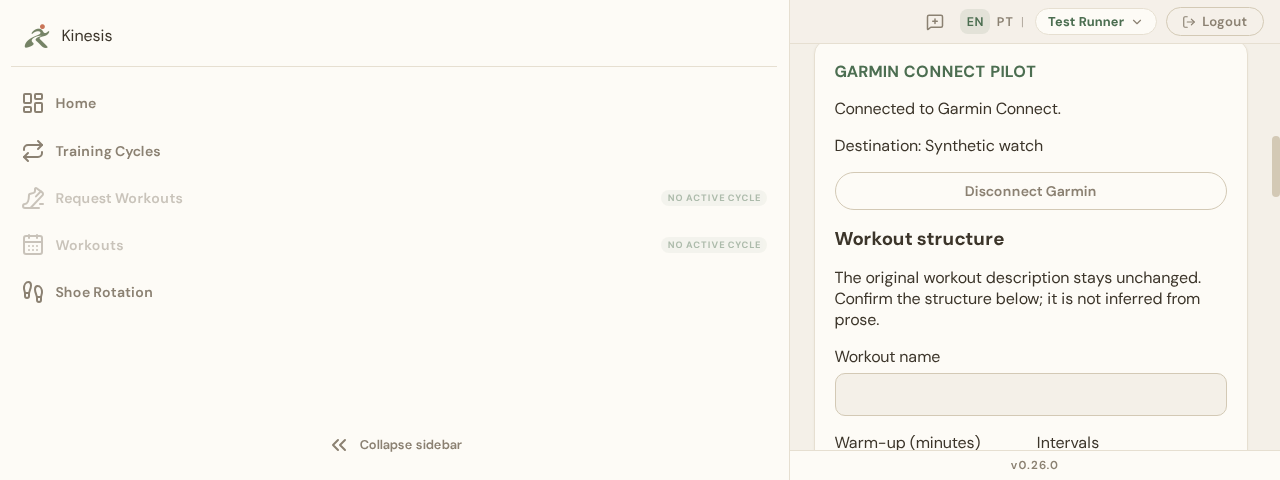
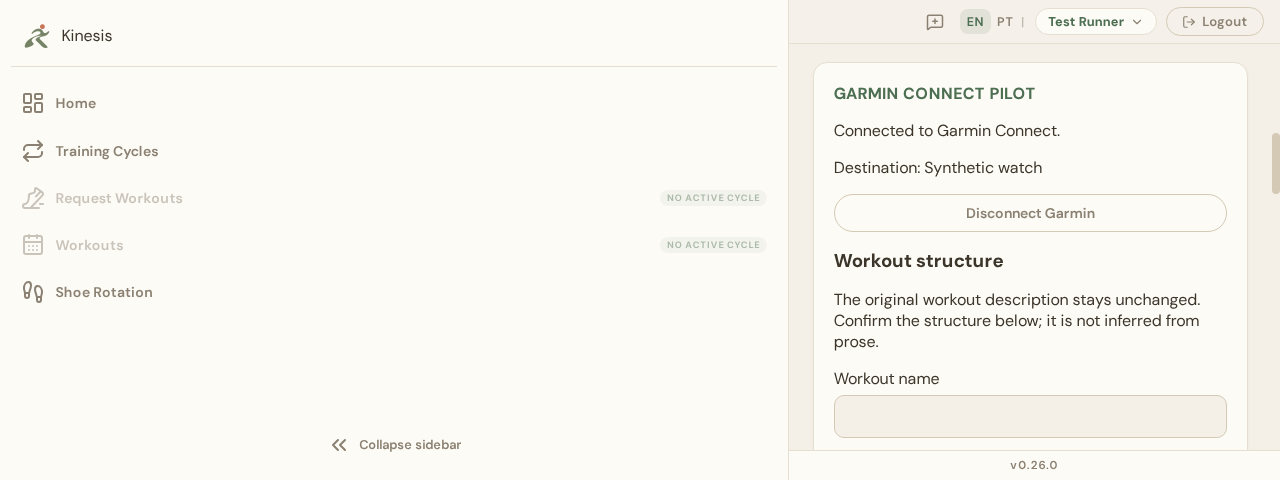
feat: support distance intervals in Garmin pilot

diff --git a/src/public/training-result.js b/src/public/training-result.js
@@ -1276,6 +1276,7 @@ async function initTrainingResult() {
   const garminOperationStatus = document.getElementById('garminOperationStatus');
   const garminReconcileButton = document.getElementById('garminReconcileButton');
   const garminTargetType = document.getElementById('garminTargetType');
+  const garminIntervalType = document.getElementById('garminIntervalType');
   const garminTargetFields = document.getElementById('garminTargetFields');
   let garminChallenge = null;
   let garminFingerprint = null;
@@ -1337,7 +1338,13 @@ async function initTrainingResult() {
     const cooldown = value.steps.find((step) => step.kind === 'cooldown');
     document.getElementById('garminWarmup').value = warmup ? warmup.end.value / 60 : 0;
     document.getElementById('garminRepetitions').value = repeat?.repetitions || 1;
-    document.getElementById('garminInterval').value = run ? run.end.value / 60 : 30;
+    const runEnd = run?.end || { type: 'time', value: 1800 };
+    garminIntervalType.value = runEnd.type;
+    const distanceUnit = getUserPreferences().distance_unit === 'mi' ? 'mi' : 'km';
+    document.getElementById('garminInterval').value = runEnd.type === 'distance'
+      ? runEnd.value / (distanceUnit === 'mi' ? 1609.344 : 1000)
+      : runEnd.value / 60;
+    updateGarminIntervalInput(false);
     document.getElementById('garminRecovery').value = recovery ? recovery.end.value / 60 : 0;
     document.getElementById('garminCooldown').value = cooldown ? cooldown.end.value / 60 : 0;
   };
@@ -1352,7 +1359,10 @@ async function initTrainingResult() {
     const repetitions = Number(document.getElementById('garminRepetitions').value);
     const steps = [];
     if (minutes('garminWarmup')) steps.push({ id: 'warmup', kind: 'warmup', end: { type: 'time', value: Math.round(minutes('garminWarmup') * 60) }, target: { type: 'none' } });
-    const interval = { end: { type: 'time', value: Math.round(minutes('garminInterval') * 60) }, target };
+    const intervalEnd = garminIntervalType.value === 'distance'
+      ? { type: 'distance', value: Math.round(convertDistanceToKm(minutes('garminInterval'), getUserPreferences().distance_unit === 'mi' ? 'mi' : 'km') * 1000) }
+      : { type: 'time', value: Math.round(minutes('garminInterval') * 60) };
+    const interval = { end: intervalEnd, target };
     if (repetitions > 1) steps.push({ id: 'repeat', kind: 'repeat', repetitions, interval, recovery: { end: { type: 'time', value: Math.round(minutes('garminRecovery') * 60) }, target: { type: 'none' } } });
     else steps.push({ id: 'run', kind: 'run', ...interval });
     if (minutes('garminCooldown')) steps.push({ id: 'cooldown', kind: 'cooldown', end: { type: 'time', value: Math.round(minutes('garminCooldown') * 60) }, target: { type: 'none' } });
@@ -1379,7 +1389,10 @@ async function initTrainingResult() {
     for (const step of preview.steps) {
       const li = document.createElement('li');
       const label = garminText(step.kind === 'repeat' ? 'repeatName' : `${step.kind}Name`, { count: step.repetitions });
-      const detail = step.end?.type === 'time' ? garminText('timeDetail', { minutes: Math.round(step.end.value / 60) }) : garminText('unsupported');
+      const distanceUnit = getUserPreferences().distance_unit === 'mi' ? 'mi' : 'km';
+      const detail = step.end?.type === 'time' ? garminText('timeDetail', { minutes: Math.round(step.end.value / 60) })
+        : step.end?.type === 'distance' ? garminText('distanceDetail', { distance: formatDistance(step.end.value / 1000, distanceUnit) })
+          : garminText('unsupported');
       let target = garminText('noTarget');
       if (step.target?.type === 'heart_rate') target = `${step.target.lower_bpm}–${step.target.upper_bpm} bpm`;
       else if (step.target?.type === 'pace') target = `${formatPaceFromMetric(step.target.faster_seconds)}–${formatPaceFromMetric(step.target.slower_seconds)} /km`;
@@ -1391,6 +1404,7 @@ async function initTrainingResult() {
   };
   document.addEventListener('app:languagechange', () => {
     setGarminConnectionMessage(garminConnectionMessage);
+    updateGarminIntervalInput(false);
     if (garminCurrentOperation) renderGarminOperation(garminCurrentOperation);
     else if (garminOperationMessageKey) setGarminOperationMessage(garminOperationMessageKey);
     if (garminPreviewModel) renderGarminPreview(garminPreviewModel);
@@ -1403,6 +1417,19 @@ async function initTrainingResult() {
     document.getElementById('garminLower').min = garminTargetType.value === 'pace' ? '2' : '40';
     document.getElementById('garminUpper').min = garminTargetType.value === 'pace' ? '2' : '40';
   });
+  function updateGarminIntervalInput(reset = false) {
+    const input = document.getElementById('garminInterval');
+    const unit = getUserPreferences().distance_unit === 'mi' ? 'mi' : 'km';
+    const byDistance = garminIntervalType.value === 'distance';
+    document.getElementById('garminIntervalLabel').textContent = garminText(
+      byDistance ? (unit === 'mi' ? 'runDistanceMi' : 'runDistanceKm') : 'runMinutes',
+    );
+    input.min = byDistance ? '0.1' : '1';
+    input.max = byDistance ? (unit === 'mi' ? '62.1' : '100') : '120';
+    input.step = byDistance ? '0.1' : '1';
+    if (reset) input.value = byDistance ? '5' : '30';
+  }
+  garminIntervalType.addEventListener('change', () => updateGarminIntervalInput(true));
   garminConnectButton.addEventListener('click', () => {
     garminAuthForm.dataset.open = 'true'; garminAuthForm.hidden = false;
     garminConnectButton.hidden = true; document.getElementById('garminEmail').focus();

diff --git a/test/garminSession.browser.test.js b/test/garminSession.browser.test.js
@@ -24,6 +24,7 @@ test('Garmin session UI previews without remote mutation in PT/EN on desktop and
   assert.ok(chrome, 'Chrome is required for Garmin UI verification.');
   const db = createDatabase({ filename: ':memory:' });
   const owner = await registerUser(db, { email: 'garmin-ui@example.test', password: 'Synthetic-only-1', first_name: 'Test', last_name: 'Runner' });
+  db.prepare("UPDATE users SET distance_unit = 'mi' WHERE id = ?").run(owner.id);
   db.prepare('INSERT INTO trainings (user_id,dia,tipo,treino,detalhes) VALUES (?,?,?,?,?)').run(owner.id, '2026-11-02', 'Run', 'Intervals', '6 x 3 min');
   const remoteCalls = [];
   const app = await buildServer({ db, sessionCookieSecure: false,
@@ -54,7 +55,7 @@ test('Garmin session UI previews without remote mutation in PT/EN on desktop and
     await command('Network.enable'); await command('Network.setCookie', { name: SESSION_COOKIE_NAME, value: createSession(db, owner.id).token, url: baseUrl });
     await command('Emulation.setDeviceMetricsOverride', { width: 1280, height: 900, deviceScaleFactor: 1, mobile: false });
     await command('Page.navigate', { url: `${baseUrl}/training-result.html?id=1` });
-    const wait = async (expression) => { for (let i = 0; i < 150; i += 1) { if (await evaluate(expression).catch(() => false)) return; await delay(100); } throw new Error('Garmin session panel did not become ready.'); };
+    const wait = async (expression) => { for (let i = 0; i < 150; i += 1) { if (await evaluate(expression).catch(() => false)) return; await delay(100); } const diagnostic = await evaluate("document.getElementById('garminOperationStatus')?.textContent").catch(() => 'unavailable'); throw new Error(`Garmin session panel did not become ready: ${diagnostic}`); };
     await wait("document.getElementById('sessionDate')?.textContent.trim() !== '-' && !document.getElementById('garminSessionCard').hidden");
     await wait("document.getElementById('garminConnectionStatus').textContent.includes('Connected')");
     await evaluate("document.getElementById('garminSessionCard').scrollIntoView()");
@@ -75,6 +76,14 @@ test('Garmin session UI previews without remote mutation in PT/EN on desktop and
     const low = await evaluate("(()=>({height:innerHeight,scrollWidth:document.documentElement.scrollWidth,width:innerWidth,cardWidth:document.getElementById('garminSessionCard').getBoundingClientRect().width}))()");
     assert.equal(low.height, 480); assert.ok(low.scrollWidth <= low.width); assert.ok(low.cardWidth < low.width);
     await command('Page.captureScreenshot').then((shot) => require('node:fs').writeFileSync('/tmp/kinesis-garmin-ui-en-low-window.png', Buffer.from(shot.data, 'base64')));
+    await evaluate("document.getElementById('garminWorkoutName').value='Tempo synthetic';document.getElementById('garminIntervalType').value='distance';document.getElementById('garminIntervalType').dispatchEvent(new Event('change'));document.getElementById('garminInterval').value='5';document.getElementById('garminPrescriptionForm').requestSubmit()");
+    await wait("!document.getElementById('garminPreview').hidden");
+    assert.match(await evaluate("document.getElementById('garminPreviewSteps').textContent"), /Run: 5\.00 mi/);
+    assert.equal(JSON.parse(db.prepare('SELECT prescription_json FROM garmin_workout_prescriptions').get().prescription_json).steps[0].end.value, 8047);
+    await evaluate("document.getElementById('garminPreview').scrollIntoView()");
+    await command('Page.captureScreenshot').then((shot) => require('node:fs').writeFileSync('/tmp/kinesis-garmin-ui-en-distance-preview.png', Buffer.from(shot.data, 'base64')));
+    await evaluate("document.getElementById('garminIntervalType').value='time';document.getElementById('garminIntervalType').dispatchEvent(new Event('change'));document.getElementById('garminInterval').value='30';document.getElementById('garminPrescriptionForm').requestSubmit()");
+    await wait("document.getElementById('garminPreviewSteps').textContent.includes('Run: 30 min')");
     await evaluate("document.getElementById('garminWorkoutName').value='Tempo synthetic';document.getElementById('garminPrescriptionForm').requestSubmit()");
     await wait("!document.getElementById('garminPreview').hidden");
     assert.match(await evaluate("document.getElementById('garminPreviewSteps').textContent"), /Run: 30 min/);

diff --git a/scripts/garmin-product.js b/scripts/garmin-product.js
@@ -230,7 +230,8 @@ function toConnectorPayload(operation) {
       || (warmups.length && ordered[0] !== warmups[0])
       || (cooldowns.length && ordered[ordered.length - 1] !== cooldowns[0])
       || (ordered.length !== warmups.length + cooldowns.length + mains.length)) throw new Error('unsupported');
-  let warmup = 0, interval = 0, recovery = 0, cooldown = 0, repetitions = 1, pace = null;
+  let warmup = 0, intervalSeconds = null, intervalDistanceMeters = null;
+  let recovery = 0, cooldown = 0, repetitions = 1, pace = null;
   let targetKind = 'none';
   let lowerBpm = null;
   let upperBpm = null;
@@ -245,18 +246,26 @@ function toConnectorPayload(operation) {
   for (const step of ordered) {
     if (step.kind === 'warmup' && step.end.type === 'time' && step.end.value <= 3600 && step.target.type === 'none') warmup = step.end.value;
     else if (step.kind === 'cooldown' && step.end.type === 'time' && step.end.value <= 3600 && step.target.type === 'none') cooldown = step.end.value;
-    else if (step.kind === 'repeat' && step.interval.end.type === 'time' && step.recovery.end.type === 'time'
+    else if (step.kind === 'repeat' && ['time', 'distance'].includes(step.interval.end.type) && step.recovery.end.type === 'time'
       && step.recovery.target.type === 'none' && step.repetitions <= 20) {
       if (step.recovery.end.value > 3600) throw new Error('unsupported');
-      interval = step.interval.end.value; recovery = step.recovery.end.value; repetitions = step.repetitions;
+      if (step.interval.end.type === 'time') intervalSeconds = step.interval.end.value;
+      else intervalDistanceMeters = step.interval.end.value;
+      recovery = step.recovery.end.value; repetitions = step.repetitions;
       applyTarget(step.interval.target);
-    } else if (step.kind === 'run' && step.end.type === 'time') {
-      if (interval) throw new Error('unsupported');
-      interval = step.end.value; applyTarget(step.target);
+    } else if (step.kind === 'run' && ['time', 'distance'].includes(step.end.type)) {
+      if (intervalSeconds !== null || intervalDistanceMeters !== null) throw new Error('unsupported');
+      if (step.end.type === 'time') intervalSeconds = step.end.value;
+      else intervalDistanceMeters = step.end.value;
+      applyTarget(step.target);
     } else throw new Error('unsupported');
   }
-  if (!interval) throw new Error('unsupported');
-  return { operation_id: operation.operationId, name: valid.name, warmup_seconds: warmup, interval_seconds: interval, recovery_seconds: recovery, repetitions, cooldown_seconds: cooldown, target_kind: targetKind, target_lower_mps: pace?.lower_mps ?? null, target_upper_mps: pace?.upper_mps ?? null, target_lower_bpm: lowerBpm, target_upper_bpm: upperBpm };
+  if ((intervalSeconds === null) === (intervalDistanceMeters === null)) throw new Error('unsupported');
+  return { operation_id: operation.operationId, name: valid.name, warmup_seconds: warmup,
+    interval_seconds: intervalSeconds, interval_distance_meters: intervalDistanceMeters,
+    recovery_seconds: recovery, repetitions, cooldown_seconds: cooldown, target_kind: targetKind,
+    target_lower_mps: pace?.lower_mps ?? null, target_upper_mps: pace?.upper_mps ?? null,
+    target_lower_bpm: lowerBpm, target_upper_bpm: upperBpm };
 }
 
 async function runOperation(db, fetchImpl, config, operation, currentTraining) {

diff --git a/src/public/training-result.html b/src/public/training-result.html
@@ -86,7 +86,8 @@
             <div class="garmin-step-grid">
               <label><span data-i18n="garmin.product.warmup">Warm-up (minutes)</span><input id="garminWarmup" type="number" min="0" max="60" value="0" class="input-control"></label>
               <label><span data-i18n="garmin.product.repetitions">Intervals</span><input id="garminRepetitions" type="number" min="1" max="30" value="1" class="input-control"></label>
-              <label><span data-i18n="garmin.product.interval">Run (minutes)</span><input id="garminInterval" type="number" min="1" max="120" value="30" class="input-control" required></label>
+              <label><span data-i18n="garmin.product.endCondition">Main step ends by</span><select id="garminIntervalType" class="input-control"><option value="time" data-i18n="garmin.product.byTime">Time</option><option value="distance" data-i18n="garmin.product.byDistance">Distance</option></select></label>
+              <label><span id="garminIntervalLabel" data-i18n="garmin.product.runMinutes">Run (minutes)</span><input id="garminInterval" type="number" min="1" max="120" value="30" class="input-control" required></label>
               <label><span data-i18n="garmin.product.recovery">Recovery (minutes)</span><input id="garminRecovery" type="number" min="0" max="60" value="0" class="input-control"></label>
               <label><span data-i18n="garmin.product.cooldown">Cool-down (minutes)</span><input id="garminCooldown" type="number" min="0" max="60" value="0" class="input-control"></label>
             </div>

diff --git a/test/garminProduct.routes.test.js b/test/garminProduct.routes.test.js
@@ -80,6 +80,10 @@ test('connector conversion preserves timed repeat, pace and absolute HR semantic
   assert.equal(hrPayload.target_kind, 'heart_rate');
   assert.deepEqual([hrPayload.target_lower_bpm, hrPayload.target_upper_bpm], [140, 165]);
   operation.prescription.steps[1].interval.end = { type: 'distance', value: 1000 };
+  const distancePayload = toConnectorPayload(operation);
+  assert.equal(distancePayload.interval_seconds, null);
+  assert.equal(distancePayload.interval_distance_meters, 1000);
+  operation.prescription.steps = [{ id: 'open', kind: 'open', end: { type: 'open' }, target: { type: 'none' } }];
   assert.throws(() => toConnectorPayload(operation), /unsupported/);
 });
 

diff --git a/services/garmin-connector/app/main.py b/services/garmin-connector/app/main.py
@@ -80,7 +80,8 @@ class WorkoutPayload(StrictModel):
     operation_id: uuid.UUID
     name: str = Field(min_length=1, max_length=32, pattern=r"^[\w .-]+$")
     warmup_seconds: int = Field(default=0, ge=0, le=3600)
-    interval_seconds: int = Field(ge=1, le=7200)
+    interval_seconds: int | None = Field(default=None, ge=1, le=7200)
+    interval_distance_meters: int | None = Field(default=None, ge=1, le=100000)
     recovery_seconds: int = Field(default=0, ge=0, le=3600)
     repetitions: int = Field(default=1, ge=1, le=20)
     cooldown_seconds: int = Field(default=0, ge=0, le=3600)
@@ -910,8 +911,11 @@ def publish_workout(owner_id: str, connection_id: str, body: WorkoutPayload,
             from garminconnect.workout import (
                 CustomHeartRateTarget, PaceTarget, RunningWorkout, WorkoutSegment, create_cooldown_step,
                 create_interval_step, create_recovery_step, create_repeat_group,
-                create_targeted_interval_step, create_warmup_step,
+                create_targeted_interval_step, create_distance_interval_step,
+                create_targeted_distance_interval_step, create_warmup_step,
             )
+            if (body.interval_seconds is None) == (body.interval_distance_meters is None):
+                raise ValueError("Exactly one interval end condition is required")
             if (body.target_lower_mps is None) != (body.target_upper_mps is None):
                 raise ValueError("Both pace bounds are required")
             if (body.target_lower_bpm is None) != (body.target_upper_bpm is None):
@@ -983,9 +987,20 @@ def publish_workout(owner_id: str, connection_id: str, body: WorkoutPayload,
                                         upper_limit=body.target_upper_mps)
                 interval_order = 2 if body.warmup_seconds else 1
                 interval_step_order = 1 if body.repetitions > 1 else interval_order
-                interval = (create_targeted_interval_step(
-                    body.interval_seconds, step_order=interval_step_order, target=target
-                ) if target else create_interval_step(body.interval_seconds, step_order=interval_step_order))
+                if body.interval_seconds is not None:
+                    interval = (create_targeted_interval_step(
+                        body.interval_seconds, step_order=interval_step_order, target=target
+                    ) if target else create_interval_step(body.interval_seconds, step_order=interval_step_order))
+                    estimated_interval_seconds = body.interval_seconds * body.repetitions
+                else:
+                    interval = (create_targeted_distance_interval_step(
+                        body.interval_distance_meters, step_order=interval_step_order, target=target
+                    ) if target else create_distance_interval_step(
+                        body.interval_distance_meters, step_order=interval_step_order
+                    ))
+                    # Garmin requires this field, but Kinesis does not invent a
+                    # duration estimate for a distance step.
+                    estimated_interval_seconds = None
                 repeated_steps = [interval]
                 if body.repetitions > 1:
                     if body.recovery_seconds < 1:
@@ -1004,9 +1019,9 @@ def publish_workout(owner_id: str, connection_id: str, body: WorkoutPayload,
                     steps.append(create_cooldown_step(body.cooldown_seconds, step_order=len(steps) + 1))
             workout = RunningWorkout(
                 workoutName=expected_name[:60],
-                estimatedDurationInSecs=(body.warmup_seconds + body.repetitions * body.interval_seconds
+                estimatedDurationInSecs=(body.warmup_seconds + estimated_interval_seconds
                                          + max(0, body.repetitions - 1) * body.recovery_seconds
-                                         + body.cooldown_seconds),
+                                         + body.cooldown_seconds) if estimated_interval_seconds is not None else 0,
                 workoutSegments=[WorkoutSegment(
                     segmentOrder=1,
                     sportType={"sportTypeId": 1, "sportTypeKey": "running"},

diff --git a/services/garmin-connector/tests/test_service.py b/services/garmin-connector/tests/test_service.py
@@ -644,6 +644,19 @@ class ConnectorTests(unittest.TestCase):
             reconciled = self.client.post(f"{self.prefix}/workouts", headers=self.headers, json=workout_body)
             self.assertEqual(reconciled.json()["status"], "reconciled")
             self.assertEqual(fake.upload_calls, 2)
+            distance_body = {**workout_body,
+                             "operation_id": "e2376b45-a2b4-4dfd-8f77-dba9508d36ab",
+                             "interval_seconds": None,
+                             "interval_distance_meters": 1000}
+            distance_result = self.client.post(f"{self.prefix}/workouts", headers=self.headers,
+                                               json=distance_body)
+            self.assertEqual(distance_result.status_code, 200, distance_result.text)
+            distance_workout = fake.workout
+            distance_repeat = distance_workout.workoutSegments[0].workoutSteps[1]
+            distance_interval = distance_repeat.workoutSteps[0]
+            self.assertEqual(distance_interval.endCondition["conditionTypeId"], 3)
+            self.assertEqual(distance_interval.endConditionValue, 1000)
+            self.assertEqual(distance_workout.estimatedDurationInSecs, 0)
             changed = {**workout_body, "interval_seconds": 121}
             conflict = self.client.post(f"{self.prefix}/workouts", headers=self.headers, json=changed)
             self.assertEqual(conflict.status_code, 409)

diff --git a/docs/garmin-integration.md b/docs/garmin-integration.md
@@ -289,13 +289,13 @@ the `KGC1` envelope. Do not restore a token backup from a different key.
 ## Automated evidence and go/no-go
 
 At the #73 branch the connector suite has **47 passing tests**; Python coverage
-(`coverage run --branch --source=app -m pytest`) measures **88.94% lines**
-(756/850), **75.33% branches** (226/300), and **85.39% combined coverage** for
+(`coverage run --branch --source=app -m pytest`) measures **88.91% lines**
+(762/857), **75.33% branches** (229/304), and **85.36% combined coverage** for
 `app/main.py`. The Garmin CLI/setup/launcher and product route/contract suites
 have **41 passing tests**; `npm run test:garmin-pilot-coverage` measures
-**82.51% statements/lines, 70.62% branches, and 82.35% functions** across the
-five Garmin Node tools. The product route adapter itself measures 68.16%
-statements/lines, 59.09% branches and 92.30% functions; the versioned workout
+**82.39% statements/lines, 71.08% branches, and 82.35% functions** across the
+five Garmin Node tools. The product route adapter itself measures 68.12%
+statements/lines, 60.90% branches and 92.30% functions; the versioned workout
 contract measures 100% in all four metrics. These separate measurements are
 reported honestly and are not added 100% gates. The full `npm test` run passed
 **1,366 tests**, and `npm run test:coverage` passed the repository's existing
@@ -375,12 +375,13 @@ An explicit prescription is stored in `garmin_workout_prescriptions`, separate
 from `trainings.detalhes`, with a content fingerprint and monotonically
 increasing revision. The v1 contract is running-only and validates unique step
 IDs, repeat bounds, time/distance values, absolute heart-rate bounds, and pace
-units. RPE is not converted. The UI edits timed warm-up, run/repeat/recovery,
-and cool-down steps with no target, pace range, or absolute heart-rate range.
-The contract can represent distance and open-lap steps, but the current
-connector conversion rejects those shapes before remote dispatch; they are
-not silently flattened. Zone targets and nested repeats are not supported.
-Original prose is never interpreted or rewritten.
+units. RPE is not converted. The UI edits timed warm-up/recovery/cool-down and a
+main or repeated run interval by time or distance, with no target, pace range,
+or absolute heart-rate range. Distance is stored in meters and the selected UI
+unit is used for entry/preview. Open-lap, zone targets and nested repeats are
+not supported by the current adapter; incompatible structures are refused
+before remote dispatch instead of being flattened. Original prose is never
+interpreted or rewritten.
 
 The preview saves the local prescription but does not mutate Garmin. A separate
 confirmation starts a durable owner/session/revision/fingerprint operation.
@@ -402,15 +403,20 @@ translates timed steps and pace/absolute-HR targets to the pinned library
 contract. The remote title starts with the friendly workout name and retains a
 technical operation marker for reconciliation.
 
-The editor currently creates time-based warm-up, work/repeat, recovery, and
-cool-down steps. Although the versioned local schema can represent distance or
-open-lap steps, the product adapter rejects these before dispatch; no distance
-or lap-button workout is currently offered by the UI. Nested repeats and zone
-targets are also outside this v1 adapter. Changing a prescription creates an
-explicit new revision and can leave the earlier Garmin workout/occurrence in
-place; the product does not delete or silently update it. Changing only the
-planned civil date marks the old operation outdated, but safe remote
-rescheduling is not implemented because the pinned contract does not yet
+The editor creates time-based warm-up, recovery, and cool-down steps and a
+main/repeated interval by time or distance. Distance input follows the Kinesis
+preferred unit and is converted to canonical integer meters before persistence;
+the preview formats that value in the same preference. The adapter uses the
+pinned library's real distance-step constructor and sets Garmin's required
+estimated-duration field to zero rather than inventing a total duration for a
+distance-based prescription. This path is covered with synthetic model/transport
+tests, but distance workout creation has not been homologated on the real Garmin
+account or Forerunner 55. Open-lap steps remain rejected before dispatch.
+Nested repeats and zone targets are also outside this v1 adapter. Changing a
+prescription creates an explicit new revision and can leave the earlier Garmin
+workout/occurrence in place; the product does not delete or silently update it.
+Changing only the planned civil date marks the old operation outdated, but safe
+remote rescheduling is not implemented because the pinned contract does not yet
 provide a verified occurrence replacement/removal operation. Use Garmin Connect
 manually for such a date change until that capability is implemented.
 
@@ -453,6 +459,7 @@ simulated connector, not the owner's connection.
 | Session editor, desktop 1280×900 | [Capture](garmin-pilot-screenshots/en-desktop.png) | [Captura](garmin-pilot-screenshots/pt-desktop.png) |
 | Session editor, mobile 390×844 | [Capture](garmin-pilot-screenshots/en-mobile.png) | [Captura](garmin-pilot-screenshots/pt-mobile.png) |
 | Structured preview | [Capture](garmin-pilot-screenshots/en-preview.png) | [Captura](garmin-pilot-screenshots/pt-preview.png) |
+| Distance preview, preferred miles | [Capture](garmin-pilot-screenshots/en-distance-preview.png) | — |
 
 The low-height desktop capture is [available separately](garmin-pilot-screenshots/en-low-window.png).
 

diff --git a/services/garmin-connector/README.md b/services/garmin-connector/README.md
@@ -69,6 +69,14 @@ browser never calls Python directly. This remains restricted to the configured
 Kinesis pilot owner and is not production multi-user support. See
 `../../docs/garmin-integration.md` for supported shapes and owner homologation.
 
+The internal `POST /workouts` contract accepts exactly one main interval end
+condition: `interval_seconds` or `interval_distance_meters`. Distance is
+canonical meters and maps to the pinned library's distance-step constructor.
+For distance-based prescriptions `estimatedDurationInSecs` is zero; neither
+service invents duration or distance. Warm-up, recovery and cool-down remain
+time based in this adapter. Lap-button steps and nested repeat groups are
+refused before remote mutation.
+
 `npm run test:garmin-product-coverage` separately reports the Node product
 adapter and prescription contract; do not combine it with the backend Node
 100% gate or Python connector coverage.
